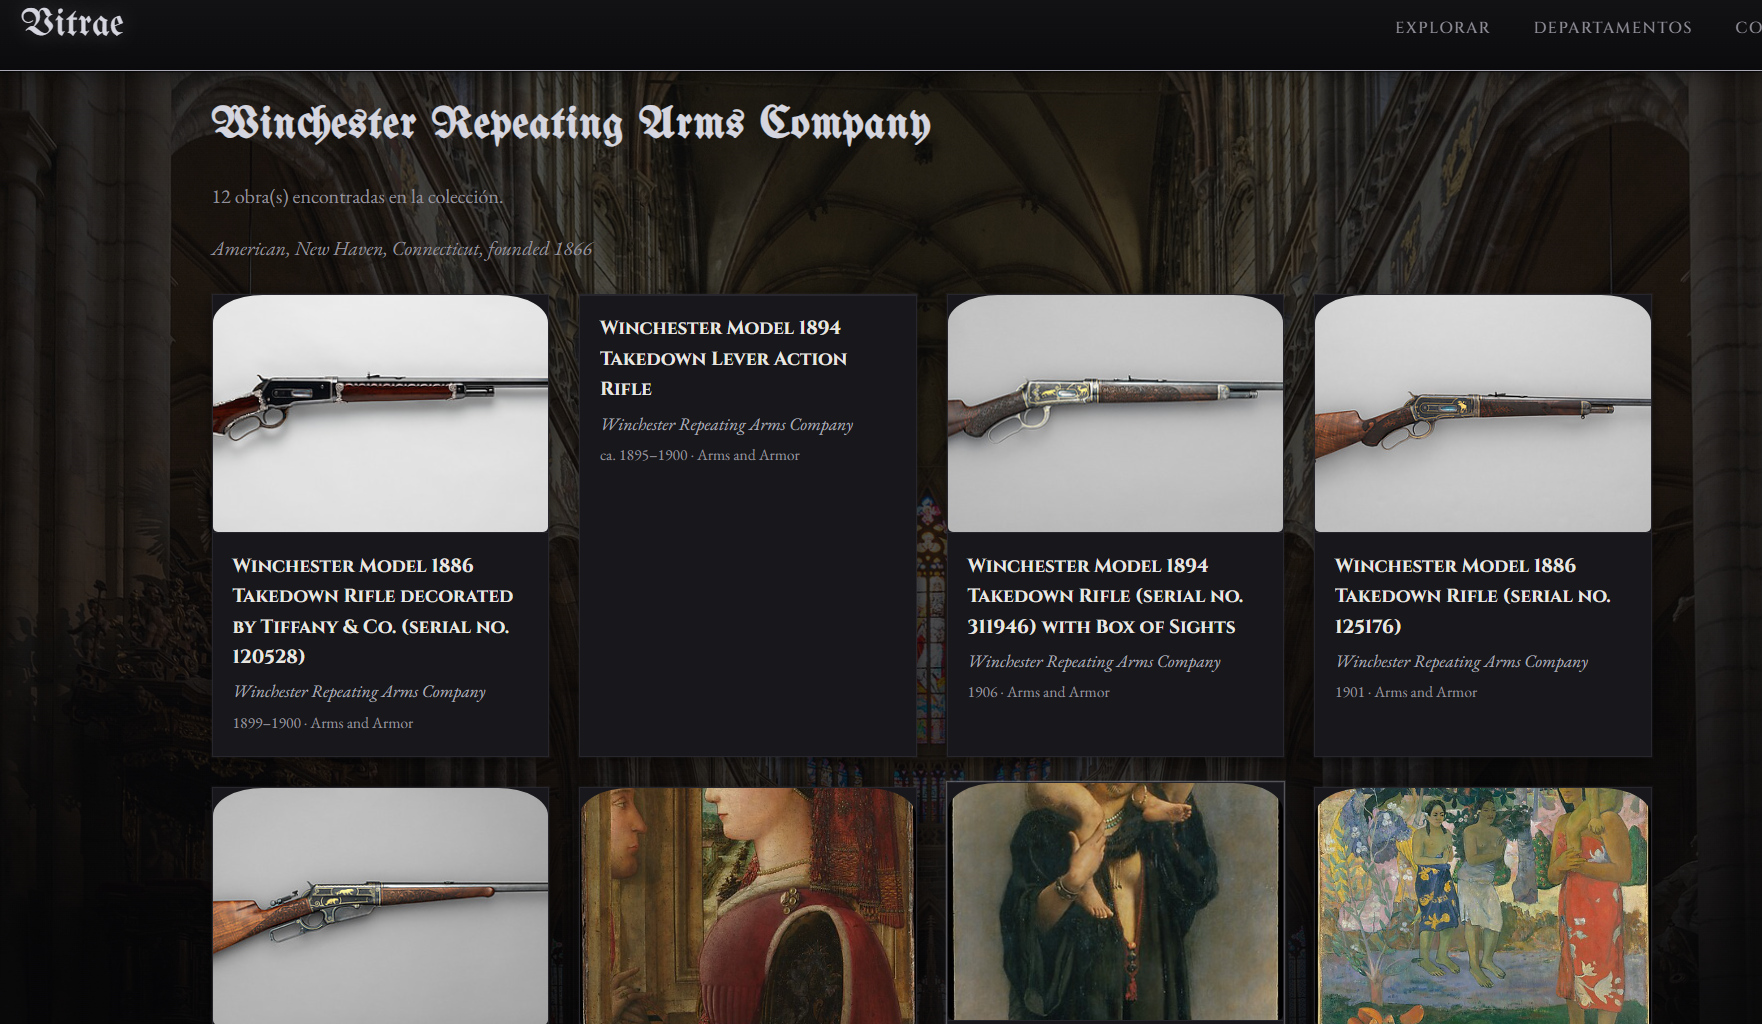
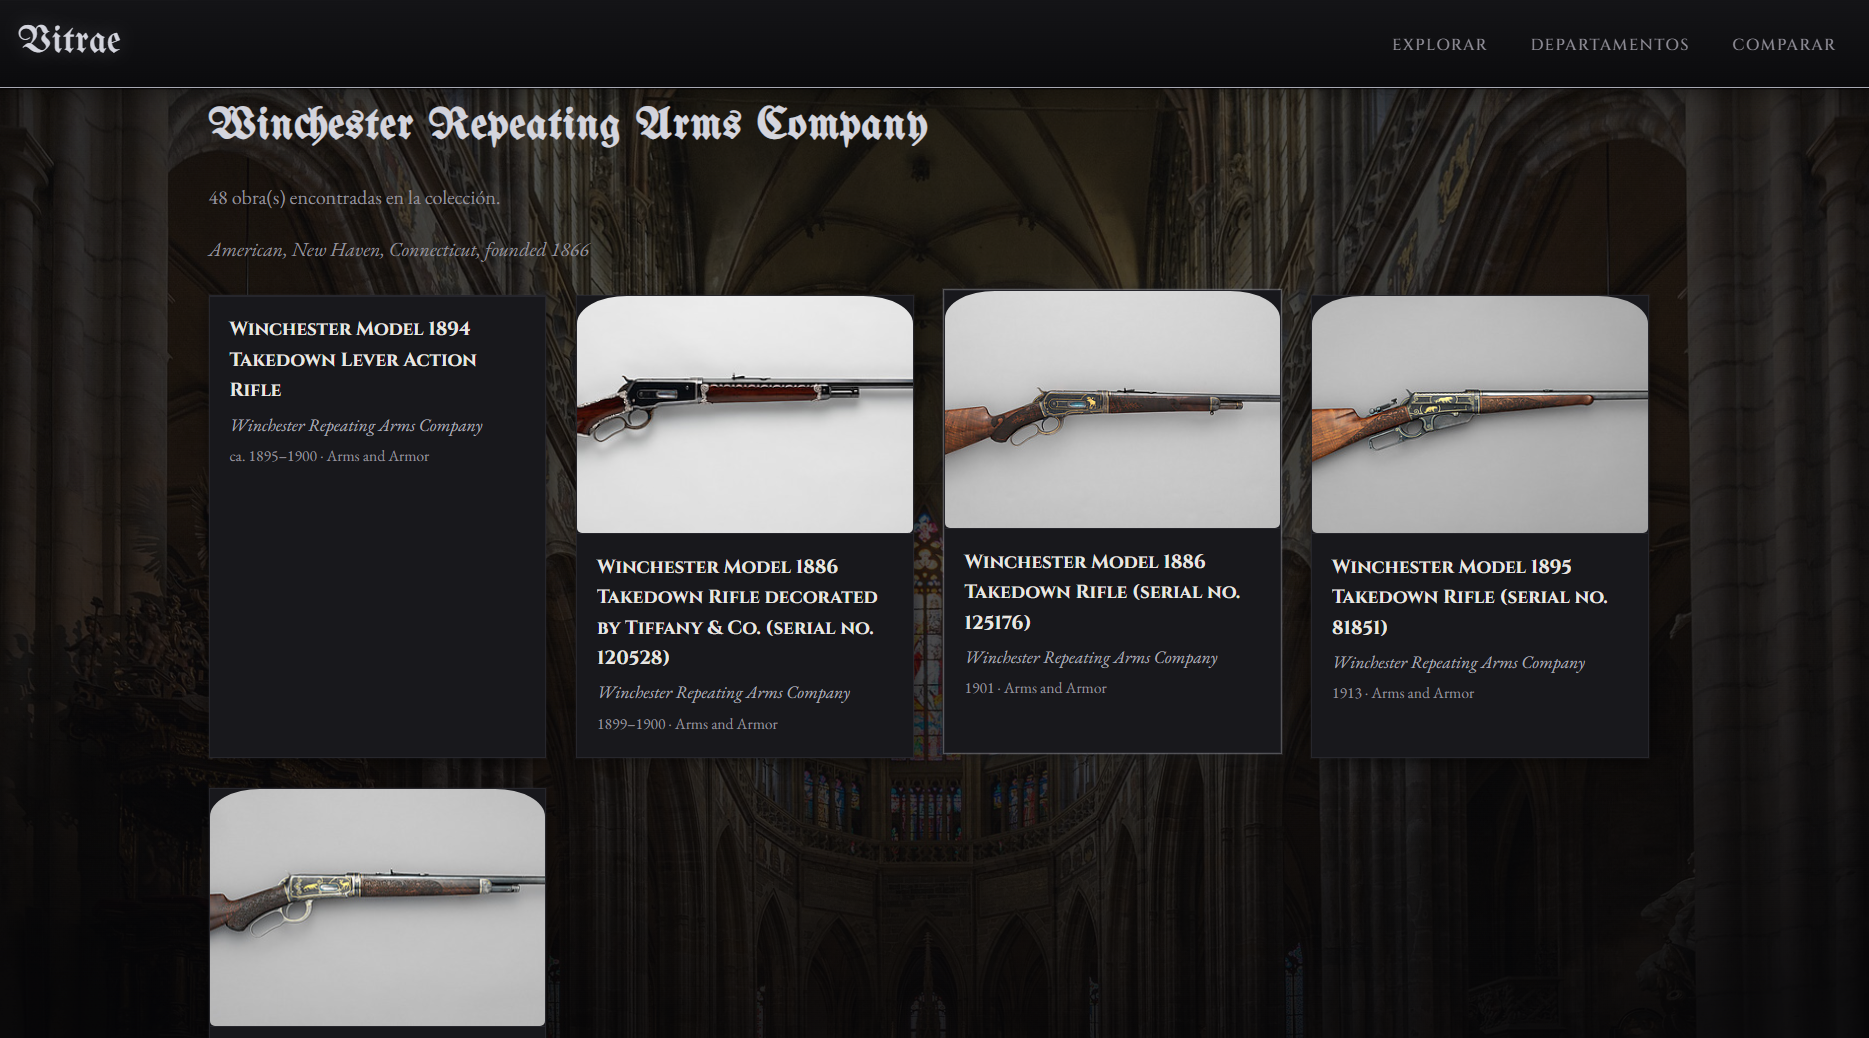
Feat: Se modificaron los archivo sde artist y puzzle, ademas de una actualizacion en la imagen del artista el en index.html.

diff --git a/js/views/view-puzzle.js b/js/views/view-puzzle.js
@@ -1,4 +1,3 @@
-
 const PUZZLE_SEARCH_DEBOUNCE_MS = 400;
 const PUZZLE_SEARCH_MAX_RESULTS = 8;
 const PUZZLE_DIFFICULTIES = [
@@ -6,6 +5,9 @@ const PUZZLE_DIFFICULTIES = [
   { label: 'Medio', size: 4 },
   { label: 'Difícil', size: 5 },
 ];
+// Cuántos píxeles hay que mover el puntero antes de considerar que
+// es un arrastre y no un click.
+const PUZZLE_DRAG_THRESHOLD = 6;
 
 function renderPuzzleView(container, params, signal) {
   const backBtn = document.createElement('button');
@@ -203,6 +205,12 @@ function _renderPuzzleBoard(stage, artwork, imageSrc, size, signal) {
   let trayPieces = _shuffle([...Array(totalPieces).keys()]);
   let selected = null;
 
+  // Estado del arrastre en curso (null cuando no se está arrastrando nada).
+  let dragState = null;
+  // Evita que el "click" que el navegador dispara después de un
+  // arrastre vuelva a disparar también la selección a 2 clicks.
+  let suppressNextClick = false;
+
   const header = document.createElement('div');
   header.className = 'puzzle-header';
 
@@ -272,13 +280,20 @@ function _renderPuzzleBoard(stage, artwork, imageSrc, size, signal) {
     };
   }
 
-  function _buildPieceEl(pieceIndex, extraClass) {
+  function _buildPieceEl(pieceIndex, extraClass, dragInfo) {
     const el = document.createElement('div');
     el.className = `puzzle-piece ${extraClass || ''}`.trim();
     Object.assign(el.style, _pieceStyle(pieceIndex));
     el.tabIndex = 0;
     el.setAttribute('role', 'button');
     el.setAttribute('aria-label', `Pieza ${pieceIndex + 1}`);
+
+    if (dragInfo) {
+      el.style.touchAction = 'none';
+      el.style.cursor = 'grab';
+      el.addEventListener('pointerdown', (e) => _onPieceGrabStart(e, el, pieceIndex, dragInfo));
+    }
+
     return el;
   }
 
@@ -293,14 +308,18 @@ function _renderPuzzleBoard(stage, artwork, imageSrc, size, signal) {
     boardState.forEach((pieceIndex, slotIndex) => {
       const slot = document.createElement('div');
       slot.className = 'puzzle-slot';
+      slot.dataset.slotIndex = String(slotIndex);
 
       if (pieceIndex !== null) {
         const isSelected = selected && selected.origin === 'board' && selected.slotIndex === slotIndex;
-        const piece = _buildPieceEl(pieceIndex, isSelected ? 'is-selected' : '');
+        const piece = _buildPieceEl(pieceIndex, isSelected ? 'is-selected' : '', { origin: 'board', slotIndex });
         slot.appendChild(piece);
       }
 
-      const activate = () => _onSlotClick(slotIndex);
+      const activate = () => {
+        if (suppressNextClick) return;
+        _onSlotClick(slotIndex);
+      };
       slot.addEventListener('click', activate);
       slot.addEventListener('keydown', (e) => {
         if (e.key === 'Enter' || e.key === ' ') {
@@ -328,8 +347,11 @@ function _renderPuzzleBoard(stage, artwork, imageSrc, size, signal) {
 
     trayPieces.forEach((pieceIndex) => {
       const isSelected = selected && selected.origin === 'tray' && selected.pieceIndex === pieceIndex;
-      const piece = _buildPieceEl(pieceIndex, isSelected ? 'is-selected' : '');
-      piece.addEventListener('click', () => _onTrayPieceClick(pieceIndex));
+      const piece = _buildPieceEl(pieceIndex, isSelected ? 'is-selected' : '', { origin: 'tray' });
+      piece.addEventListener('click', () => {
+        if (suppressNextClick) return;
+        _onTrayPieceClick(pieceIndex);
+      });
       piece.addEventListener('keydown', (e) => {
         if (e.key === 'Enter' || e.key === ' ') {
           e.preventDefault();
@@ -386,6 +408,130 @@ function _renderPuzzleBoard(stage, artwork, imageSrc, size, signal) {
       }
     }
 
+    _renderAll();
+  }
+
+  // --- Arrastre dinámico (pointer events) ---
+  // Si el puntero apenas se mueve, no hacemos nada especial y dejamos
+  // que el "click" nativo dispare la selección a 2 clicks de arriba.
+  // Si el puntero se mueve más allá del umbral, tomamos el control:
+  // mostramos una pieza "fantasma" seguiendo el cursor y, al soltar,
+  // resolvemos el drop contra la celda/bandeja que esté debajo.
+
+  function _onPieceGrabStart(e, el, pieceIndex, dragInfo) {
+    if (e.button !== undefined && e.button !== 0) return; // solo botón principal / touch
+
+    const rect = el.getBoundingClientRect();
+    dragState = {
+      pieceIndex,
+      origin: dragInfo.origin,
+      slotIndex: dragInfo.slotIndex,
+      el,
+      startX: e.clientX,
+      startY: e.clientY,
+      width: rect.width,
+      height: rect.height,
+      dragging: false,
+      ghost: null,
+    };
+
+    window.addEventListener('pointermove', _onPointerMove, { passive: false });
+    window.addEventListener('pointerup', _onPointerUp);
+    window.addEventListener('pointercancel', _onPointerUp);
+  }
+
+  function _onPointerMove(e) {
+    if (!dragState) return;
+
+    const dx = e.clientX - dragState.startX;
+    const dy = e.clientY - dragState.startY;
+
+    if (!dragState.dragging) {
+      if (Math.abs(dx) < PUZZLE_DRAG_THRESHOLD && Math.abs(dy) < PUZZLE_DRAG_THRESHOLD) return;
+
+      // Recién ahora confirmamos que es un arrastre, no un click.
+      dragState.dragging = true;
+      selected = null; // un arrastre reemplaza cualquier selección previa
+      dragState.el.style.opacity = '0.25';
+      dragState.el.style.cursor = 'grabbing';
+
+      const ghost = dragState.el.cloneNode(true);
+      ghost.classList.remove('is-selected');
+      ghost.style.opacity = '0.9';
+      ghost.style.position = 'fixed';
+      ghost.style.left = '0px';
+      ghost.style.top = '0px';
+      ghost.style.width = `${dragState.width}px`;
+      ghost.style.height = `${dragState.height}px`;
+      ghost.style.pointerEvents = 'none';
+      ghost.style.zIndex = '9999';
+      ghost.style.willChange = 'transform';
+      document.body.appendChild(ghost);
+      dragState.ghost = ghost;
+    }
+
+    e.preventDefault();
+    dragState.ghost.style.transform =
+      `translate3d(${e.clientX - dragState.width / 2}px, ${e.clientY - dragState.height / 2}px, 0)`;
+  }
+
+  function _onPointerUp(e) {
+    window.removeEventListener('pointermove', _onPointerMove);
+    window.removeEventListener('pointerup', _onPointerUp);
+    window.removeEventListener('pointercancel', _onPointerUp);
+
+    if (!dragState) return;
+    const { pieceIndex, origin, slotIndex, el, ghost, dragging } = dragState;
+    dragState = null;
+
+    if (ghost) ghost.remove();
+    if (el) {
+      el.style.opacity = '';
+      el.style.cursor = 'grab';
+    }
+
+    if (!dragging) return; // fue un click rápido: el evento "click" nativo ya se encarga
+
+    // Evitamos que el "click" que dispara el navegador justo después
+    // de este pointerup reabra la selección a 2 clicks.
+    suppressNextClick = true;
+    setTimeout(() => { suppressNextClick = false; }, 0);
+
+    const dropTarget = document.elementFromPoint(e.clientX, e.clientY);
+    const slotEl = dropTarget && dropTarget.closest('.puzzle-slot');
+    const trayEl = dropTarget && dropTarget.closest('.puzzle-tray');
+    const data = { pieceIndex, origin, slotIndex };
+
+    if (slotEl && board.contains(slotEl)) {
+      _handleDropOnSlot(data, Number(slotEl.dataset.slotIndex));
+    } else if (trayEl) {
+      _handleDropOnTray(data);
+    }
+    // Si se soltó fuera de cualquier destino válido, la pieza
+    // simplemente vuelve a su lugar (no cambiamos el estado).
+  }
+
+  function _handleDropOnSlot(data, slotIndex) {
+    if (data.origin === 'tray') {
+      const occupant = boardState[slotIndex];
+      trayPieces = trayPieces.filter((p) => p !== data.pieceIndex);
+      if (occupant !== null) trayPieces.push(occupant);
+      boardState[slotIndex] = data.pieceIndex;
+    } else if (data.origin === 'board') {
+      if (data.slotIndex === slotIndex) return; // soltada sobre sí misma
+      const occupant = boardState[slotIndex];
+      boardState[slotIndex] = data.pieceIndex;
+      boardState[data.slotIndex] = occupant; // swap si el slot ya estaba ocupado
+    }
+    selected = null;
+    _renderAll();
+  }
+
+  function _handleDropOnTray(data) {
+    if (data.origin !== 'board') return; // ya estaba en la bandeja
+    boardState[data.slotIndex] = null;
+    trayPieces.push(data.pieceIndex);
+    selected = null;
     _renderAll();
   }
 

diff --git a/js/views/view-artist.js b/js/views/view-artist.js
@@ -35,7 +35,10 @@ function renderArtistView(container, params, signal) {
 
   async function _search() {
     try {
-      const result = await MetAPI.search({ q: params.name, artistOrCulture: true }, { signal });
+      // Use a plain q search (same strategy as explore view). The artistOrCulture
+      // flag is a full-text hint in the Met API and actually reduces recall for
+      // many artists (e.g. "Lambert Suavius" returns 0 results with it on).
+      const result = await MetAPI.search({ q: params.name }, { signal });
       if (signal.aborted) return;
 
       state.allIds = result.objectIDs || [];
@@ -71,7 +74,11 @@ function renderArtistView(container, params, signal) {
     try {
       const start = (state.page - 1) * ARTIST_PAGE_SIZE;
       const pageIds = state.allIds.slice(start, start + ARTIST_PAGE_SIZE);
-      const { artworks, failedCount } = await MetAPI.resolveObjects(pageIds, { signal });
+      const { artworks: resolvedArtworks, failedCount } = await MetAPI.resolveObjects(pageIds, { signal });
+      const nameLower = params.name.toLowerCase();
+      const artworks = resolvedArtworks.filter(
+        (a) => a.artistDisplayName && a.artistDisplayName.toLowerCase().includes(nameLower)
+      );
       if (signal.aborted) return;
 
       ViewHelpers.clearElement(galleryGrid);